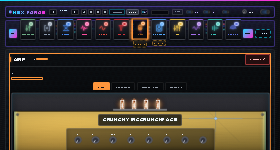
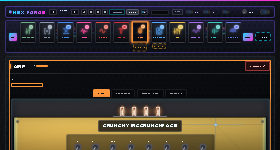
Chain container 138 -> 172px: contain the Amp 2/Cab 2 mini-tiles (they spilled the border)

diff --git a/lv2/modgui-hexforge/stylesheet-hexforge.css b/lv2/modgui-hexforge/stylesheet-hexforge.css
@@ -243,7 +243,9 @@
 
 /* ── CHAIN STRIP — clickable nodes in signal-flow order (IN → … → OUT) ── */
 .mod-pedal-guitaramp-hexforge{{{cns}}} .hf-chain {
-    flex: 0 0 auto; position: relative; height: 138px; z-index: 35;
+    /* 172px (2026-07-30): must contain .hf-nodes' 160px — the tile row plus the
+       stacked Amp 2 / Cab 2 mini-tiles. At the old 138px they spilled the border. */
+    flex: 0 0 auto; position: relative; height: 172px; z-index: 35;
     display: flex; align-items: center; gap: 10px; padding: 0 16px; box-sizing: border-box;
     background-color: rgba(8,9,13,.5);
     background-image: var(--hex), linear-gradient(180deg, rgba(120,90,255,.10), rgba(0,0,0,.18));
